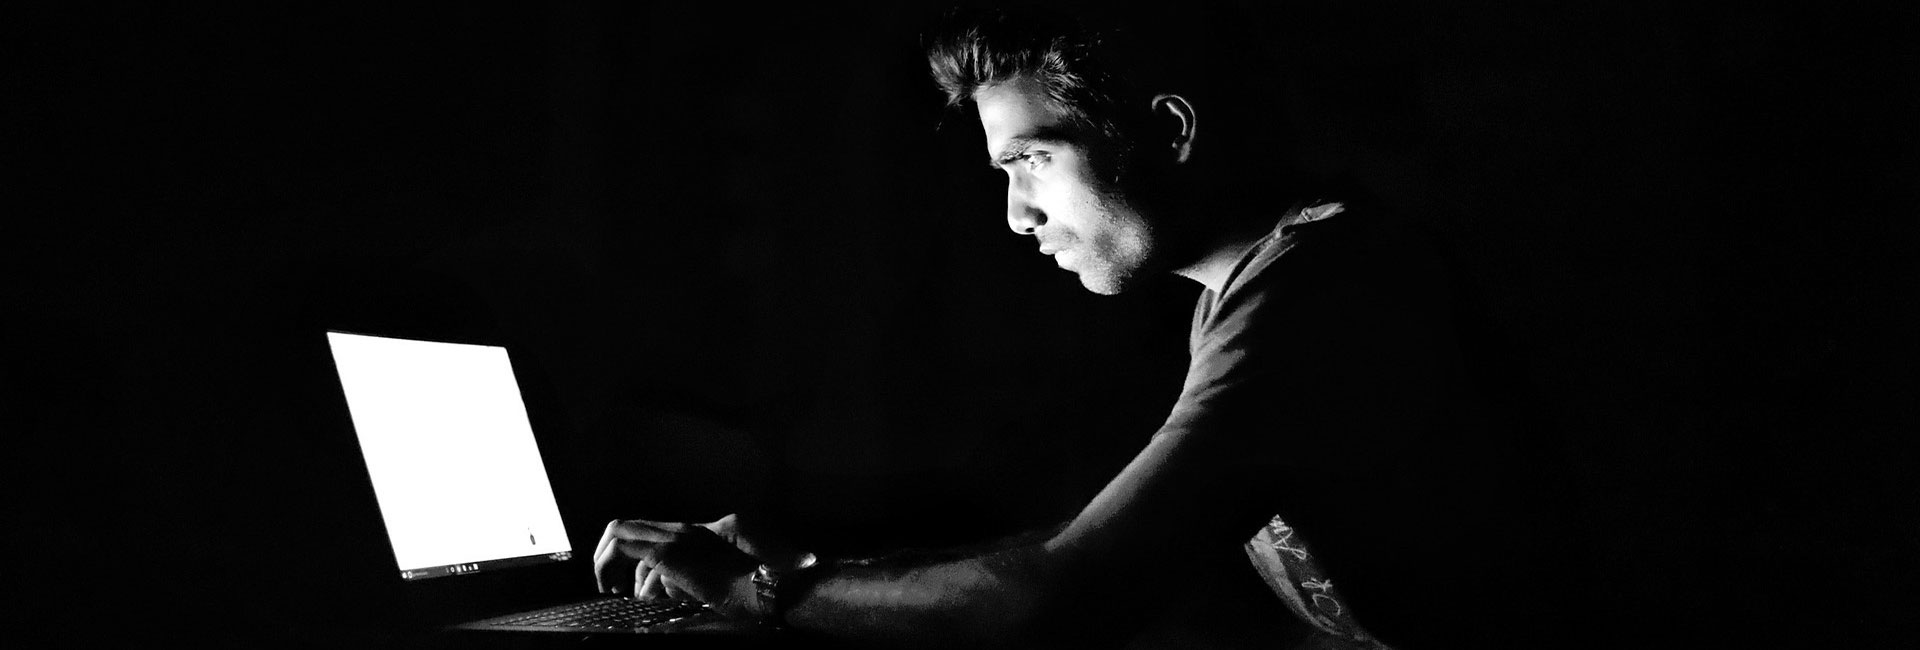
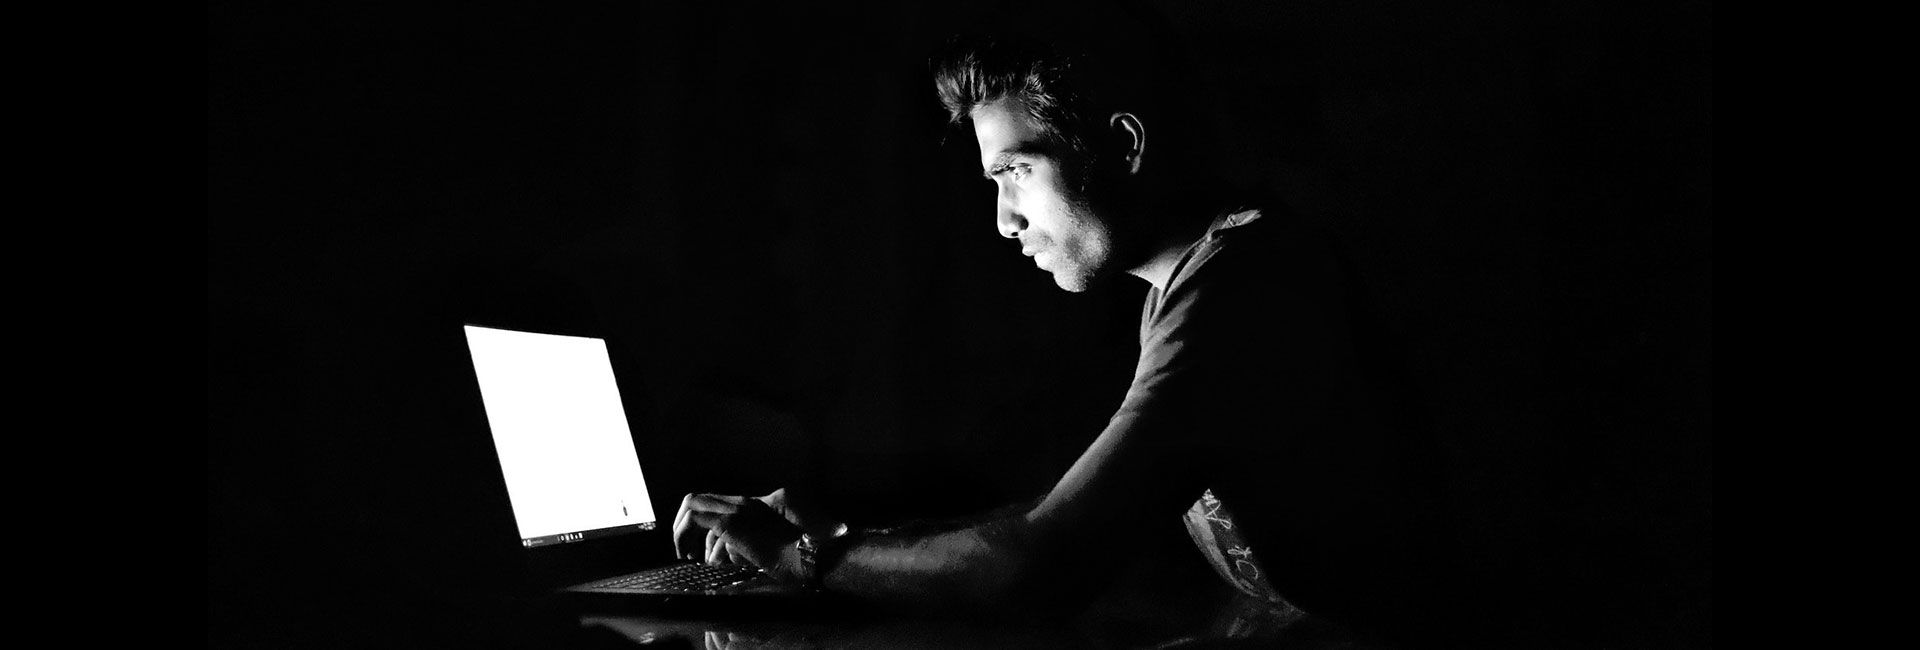
fix header-background-images add BackTop.vue in common

Changed region(s): [[0.1562, 0.0615, 0.7188, 1.0], [0.625, 0.9538, 0.6562, 0.9846]]

diff --git a/src/components/common/BackTop.vue b/src/components/common/BackTop.vue
@@ -1,0 +1,60 @@
+<!--
+  组件：BackTop返回顶部
+  隶属：Common公用
+-->
+<template>
+<div title="返回顶部" id="backTop" @click="backTop">
+  <i class="iconfont icon-fanhuidingbu1"></i>
+</div>
+</template>
+
+<script>
+export default {
+  name: 'BackTop',
+  methods: {
+    backTop () {
+      clearInterval(this.timer)
+      const target = 0
+      let speed, scrollTop
+      this.timer = setInterval(() => {
+        scrollTop = document.documentElement.scrollTop
+        speed = (target - scrollTop) / 10
+        speed = speed > 0 ? Math.ceil(speed) : Math.floor(speed)
+        if (scrollTop === target) clearInterval(this.timer)
+        document.documentElement.scrollTop =  scrollTop + speed
+      }, 30)
+    }
+  }
+}
+</script>
+
+<style lang="stylus">
+#backTop
+  position fixed
+  bottom 160px
+  right 50px
+  display flex
+  align-items center
+  justify-content center
+  width 50px
+  height 50px
+  border-radius 25px
+  background-color $main-color-1
+  cursor pointer
+  transition background-color .7s
+  &:hover
+    background-color $main-color-2
+  &::before
+    content ''
+    position absolute
+    top -3px
+    left -3px
+    height 100%
+    width 100%
+    border 2px solid $font-color
+    border-radius 50%
+  i.iconfont
+    font-size $title-fsz
+    font-weight 700
+    // color $sub-bgcolor
+</style>

diff --git a/src/App.vue b/src/App.vue
@@ -1,16 +1,18 @@
 <template>
 <div id="app">
   <router-view />
+  <back-top />
   <base-footer />
 </div>
 </template>
 
 <script>
+import BackTop from '@/components/common/BackTop'
 import Footer from '@/components/common/Footer'
 
 export default {
   name: 'App',
-  components: { BaseFooter: Footer },
+  components: { BaseFooter: Footer, BackTop },
   beforeCreate () {
     if ((navigator.userAgent.match(/(phone|pad|pod|iPhone|iPod|ios|iPad|Android|Mobile|BlackBerry|IEMobile|MQQBrowser|JUC|Fennec|wOSBrowser|BrowserNG|WebOS|Symbian|Windows Phone)/i))) {
       // TODO 待域名确定修改

diff --git a/src/assets/js/data.js b/src/assets/js/data.js
@@ -28,6 +28,9 @@ const loadPrompt = {
   noData: '暂无数据！'
 }
 
+// 页面滑动距离，显示“返回顶部”按钮
+const scrollTop = 760
+
 // 标题信息
 const aboutTitle = { mainTitle: 'ABOUT US', subTitle: '关于我们', desc1: '', desc2: '' }
 const progectsTitle = { mainTitle: 'OUR PROGECTS', subTitle: '项目展示', desc1: '积累经验', desc2: '在努力中不断成长' }
@@ -143,6 +146,7 @@ export {
   topNav,
   bottomNav,
   loadPrompt,
+  scrollTop,
   aboutTitle,
   progectsTitle,
   servicesTitle,

diff --git a/index.html b/index.html
@@ -4,7 +4,7 @@
     <meta charset="utf-8">
     <meta name="viewport" content="width=device-width,initial-scale=1.0">
     <title>SharpFactory</title>
-    <link rel="stylesheet" href="//at.alicdn.com/t/font_1356930_mo7ftamict.css">
+    <link rel="stylesheet" href="//at.alicdn.com/t/font_1356930_fevolocgcv.css">
   </head>
   <body>
     <div id="app"></div>

diff --git a/src/views/Service.vue b/src/views/Service.vue
@@ -22,7 +22,7 @@ import { servicePageInfo } from '@/assets/js/data.js'
 import Header from '@/components/common/Header'
 import PageInfo from '@/components/common/PageInfo'
 
-import HeaderBgImg from '@/assets/images/headerbg-news.jpg'
+import HeaderBgImg from '@/assets/images/headerbg-service.jpg'
 
 export default {
   name: 'AboutPage',

diff --git a/src/views/About.vue b/src/views/About.vue
@@ -22,7 +22,7 @@ import { aboutPageInfo } from '@/assets/js/data.js'
 import Header from '@/components/common/Header'
 import PageInfo from '@/components/common/PageInfo'
 
-import HeaderBgImg from '@/assets/images/headerbg-news.jpg'
+import HeaderBgImg from '@/assets/images/headerbg-about.jpg'
 
 export default {
   name: 'AboutPage',

diff --git a/src/views/Guide.vue b/src/views/Guide.vue
@@ -22,7 +22,7 @@ import { guidePageInfo } from '@/assets/js/data.js'
 import Header from '@/components/common/Header'
 import PageInfo from '@/components/common/PageInfo'
 
-import HeaderBgImg from '@/assets/images/headerbg-news.jpg'
+import HeaderBgImg from '@/assets/images/headerbg-guide.jpg'
 
 export default {
   name: 'AboutPage',
